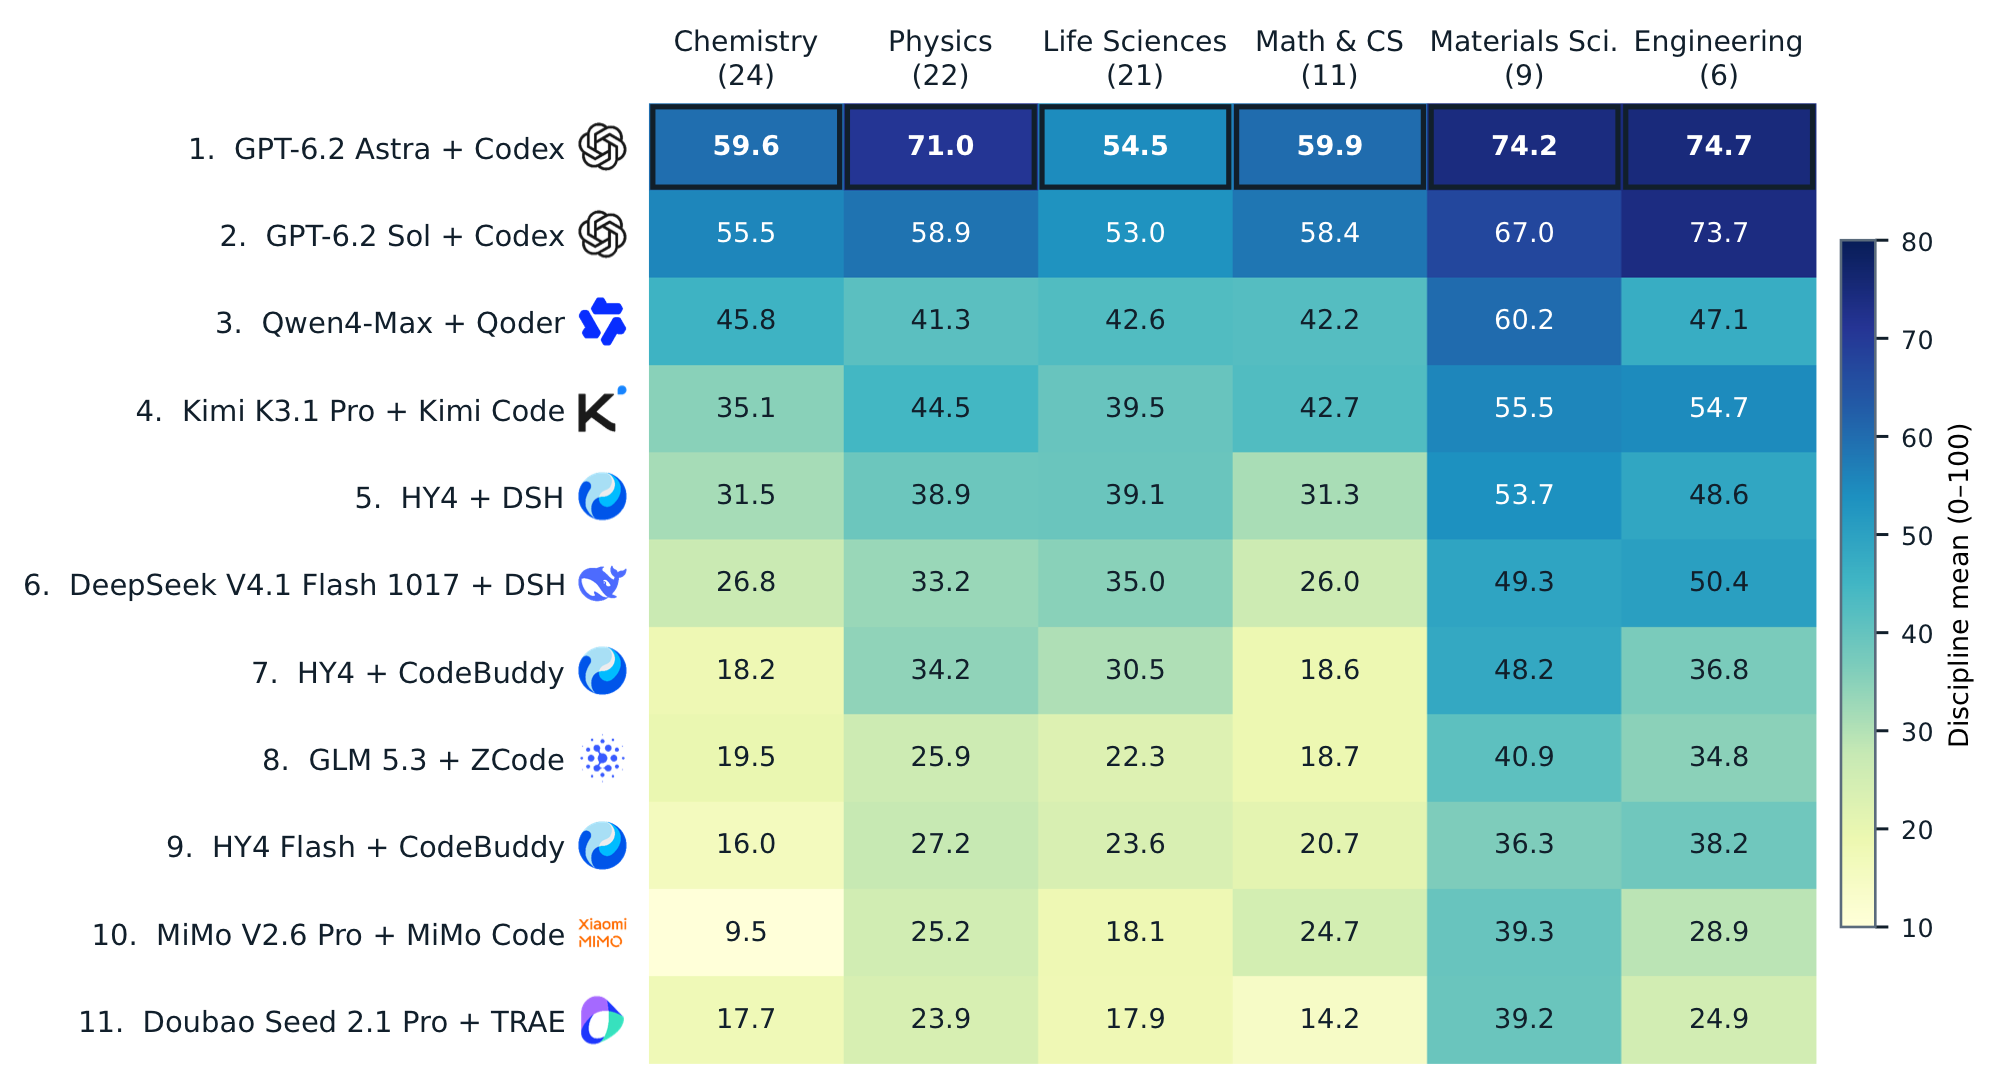
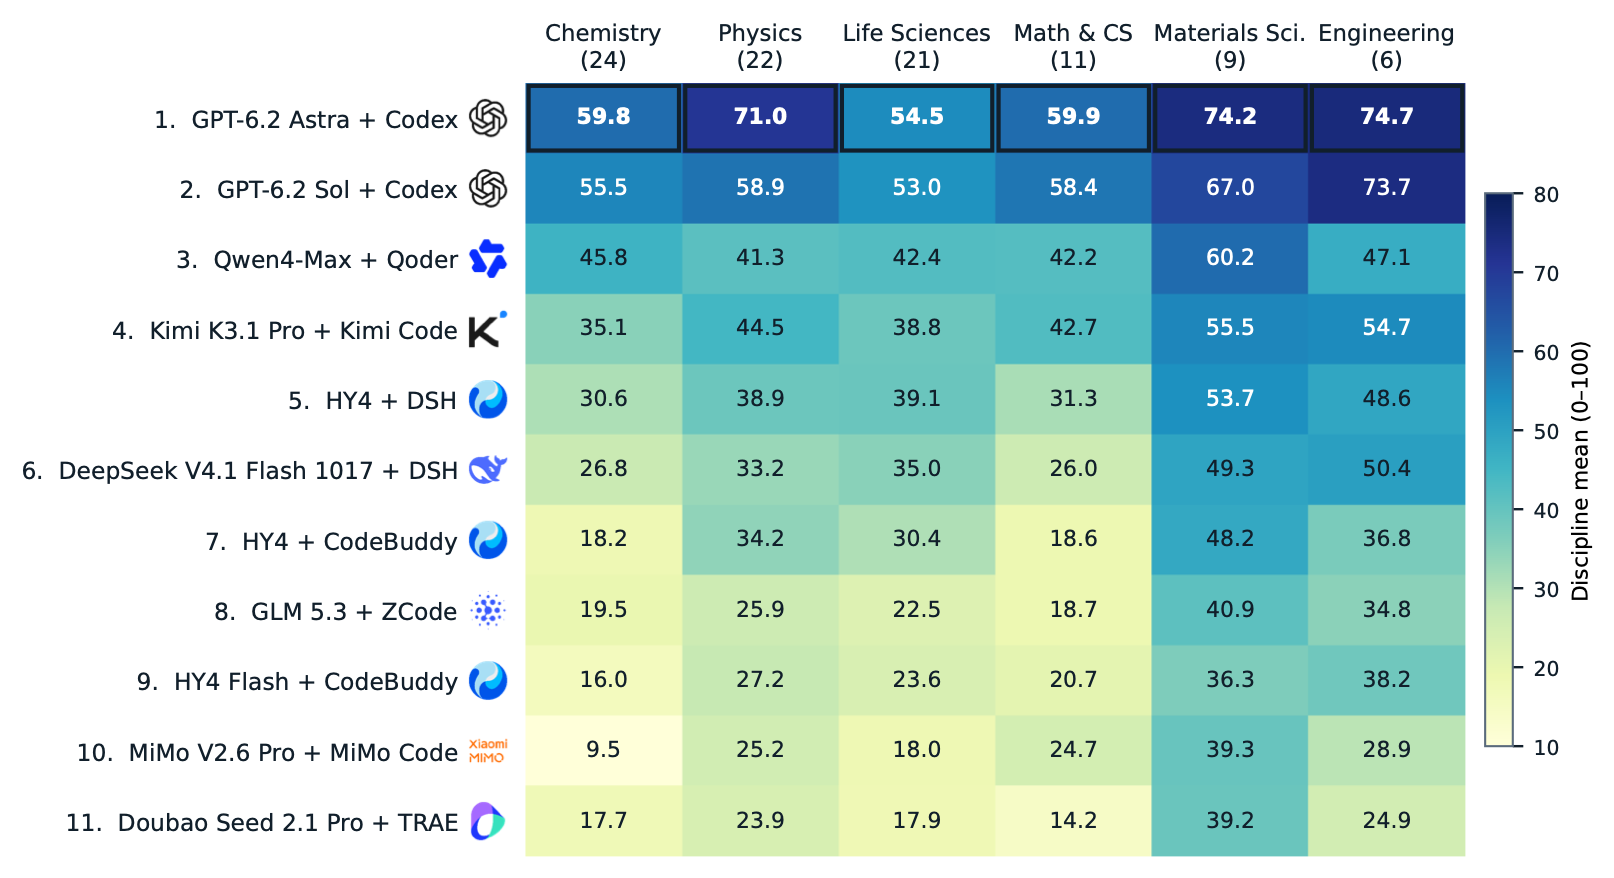
docs: add Technical Report link (deltascience.bohrium.com/report) and sync latest v1.0 leaderboard data & figures

diff --git a/README.md b/README.md
@@ -12,6 +12,7 @@
 
 <p>
   <a href="https://deltascience.bohrium.com/"><img src="https://img.shields.io/badge/Platform%20%26%20Leaderboard-deltascience.bohrium.com-111F2B?style=for-the-badge&logo=googlechrome&logoColor=white" alt="Official Platform" /></a>
+  <a href="https://deltascience.bohrium.com/report"><img src="https://img.shields.io/badge/Technical%20Report-DeltaScience%20v1.0-7C3AED?style=for-the-badge&logo=readthedocs&logoColor=white" alt="Technical Report" /></a>
   <a href="https://play.bohrium.com/competition/science-pilot"><img src="https://img.shields.io/badge/Submit%20Tasks-Playground%20Competition-0F766E?style=for-the-badge&logo=rocket&logoColor=white" alt="Submit Tasks" /></a>
   <a href="./tasks/README.md"><img src="https://img.shields.io/badge/Open--Source%20Tasks-7%20Representative%20Tasks-2563EB?style=for-the-badge&logo=github&logoColor=white" alt="Open-Source Tasks" /></a>
   <a href="mailto:deltascience@aisi.ac.cn"><img src="https://img.shields.io/badge/Contact-deltascience%40aisi.ac.cn-475569?style=for-the-badge&logo=gmail&logoColor=white" alt="Contact" /></a>
@@ -47,6 +48,7 @@ The symbol **$\delta$** in DeltaScience carries a dual meaning: it represents a 
 | Resource | Link | Description |
 | :--- | :--- | :--- |
 | **Official Platform & Leaderboard** | [https://deltascience.bohrium.com/](https://deltascience.bohrium.com/) | Live v1.0 leaderboard, per-discipline breakdowns, public exemplar tasks, and evaluation registration |
+| **Technical Report (v1.0)** | [https://deltascience.bohrium.com/report](https://deltascience.bohrium.com/report) | Full DeltaScience v1.0 Technical Report, interactive reader, methodology, and empirical findings |
 | **Year-Round Task Authoring Competition** | [https://play.bohrium.com/competition/science-pilot](https://play.bohrium.com/competition/science-pilot) | Submit real scientific problems for batch domain-expert review, CSTR attribution, collective authorship, and community incentives |
 | **Open-Source Task Repository** | [https://github.com/deepmodeling/DeltaScience](https://github.com/deepmodeling/DeltaScience) | Open-source representative Harbor task packages, specifications, and verification contracts |
 | **Official Contact** | [deltascience@aisi.ac.cn](mailto:deltascience@aisi.ac.cn) | Evaluation onboarding for Model + Harness teams, institutional collaboration, and community inquiries |
@@ -75,19 +77,19 @@ See [`tasks/README.md`](./tasks/README.md) for the standard Harbor task director
 
 All 11 versioned **Model + Harness** configurations were evaluated across all **65 private tasks × 5 independent trials** (**3,575 runs**). Task scores are averaged over the 5 trials and then macro-averaged equally across all 65 tasks, with 95% confidence intervals computed via 5,000 paired task-level bootstrap resamples. Timeouts, refusals, and harness errors are scored as 0.
 
-| Rank | Model + Harness | Mean Score | 95% CI | pass@5 | pass⁵ | Median Time |
-| :---: | :--- | :---: | :---: | :---: | :---: | :---: |
-| 1 | **GPT-6.2 Astra + Codex** | **61.2** | [51.2, 70.6] | 44.6% | 30.8% | 42m |
-| 2 | **GPT-6.2 Sol + Codex** | **56.1** | [46.8, 65.1] | 36.9% | 21.5% | 35m |
-| 3 | **Qwen4-Max + Qoder** | **44.0** | [35.2, 52.9] | 38.5% | 13.8% | 176m |
-| 4 | **Kimi K3.1 Pro + Kimi Code** | **40.8** | [32.4, 49.3] | 34.4% | 12.5% | 150m |
-| 5 | **HY4 + DSH** | **38.6** | [30.2, 47.2] | 36.9% | 4.6% | 148m |
-| 6 | DeepSeek V4.1 Flash 1017 + DSH | 32.3 | [25.1, 39.9] | 32.3% | 3.1% | 191m |
-| 7 | HY4 + CodeBuddy | 27.3 | [20.5, 34.8] | 26.2% | 4.6% | 172m |
-| 8 | GLM 5.3 + ZCode | 23.8 | [17.4, 30.4] | 24.6% | 3.1% | 300m |
-| 9 | HY4 Flash + CodeBuddy | 22.2 | [16.5, 28.4] | 18.5% | 1.5% | 114m |
-| 10 | MiMo V2.6 Pro + MiMo Code | 20.5 | [14.3, 27.1] | 13.8% | 3.1% | 159m |
-| 11 | Doubao Seed 2.1 Pro + TRAE | 19.8 | [14.0, 26.1] | 18.5% | 1.5% | 300m |
+| Rank | Model + Harness | Mean Score | 95% CI | pass@1 | pass@5 | pass⁵ | Median Time |
+| :---: | :--- | :---: | :---: | :---: | :---: | :---: | :---: |
+| 1 | **GPT-6.2 Astra + Codex** | **61.3** | [51.3, 70.6] | 55.7% | 60.0% | 49.2% | 42m |
+| 2 | **GPT-6.2 Sol + Codex** | **56.0** | [46.8, 65.1] | 46.2% | 53.8% | 36.9% | 35m |
+| 3 | **Qwen4-Max + Qoder** | **44.0** | [35.1, 52.8] | 33.2% | 49.2% | 20.0% | 176m |
+| 4 | **Kimi K3.1 Pro + Kimi Code** | **40.5** | [32.1, 48.8] | 29.5% | 50.8% | 15.4% | 150m |
+| 5 | **HY4 + DSH** | **38.3** | [30.0, 46.9] | 24.3% | 44.6% | 10.8% | 148m |
+| 6 | DeepSeek V4.1 Flash 1017 + DSH | 32.3 | [25.1, 39.9] | 17.8% | 40.0% | 4.6% | 191m |
+| 7 | HY4 + CodeBuddy | 27.3 | [20.5, 34.8] | 15.1% | 29.2% | 4.6% | 172m |
+| 8 | GLM 5.3 + ZCode | 23.9 | [17.5, 30.5] | 15.4% | 36.9% | 3.1% | 300m |
+| 9 | HY4 Flash + CodeBuddy | 22.2 | [16.5, 28.4] | 9.8% | 21.5% | 1.5% | 114m |
+| 10 | MiMo V2.6 Pro + MiMo Code | 20.5 | [14.2, 27.1] | 9.2% | 16.9% | 4.6% | 159m |
+| 11 | Doubao Seed 2.1 Pro + TRAE | 19.8 | [14.1, 26.1] | 10.8% | 24.6% | 1.5% | 300m |
 
 <p align="center">
   <img src="./assets/leaderboard-v1.0.png" alt="DeltaScience v1.0 Leaderboard" width="90%" />
@@ -95,11 +97,11 @@ All 11 versioned **Model + Harness** configurations were evaluated across all **
 
 ### Empirical Takeaways
 
-1. **Significant Headroom Remains**: Even the #1 system (`GPT-6.2 Astra + Codex`, 61.2) leaves nearly 40% headroom before reliably passing scientific acceptance across all 65 tasks, and **6 frontier tasks remain universally unsolved (0 across all 11 systems)**.
-2. **Harness Engineering Matters as Much as the Base Model**: In controlled same-model comparisons, swapping the harness on `HY4` from `CodeBuddy` to `DSH` yields **+11.3 points** (95% CI `[+6.8, +15.9]`, 42/10 win-loss)—larger than swapping base models within a fixed harness.
-3. **Reliability Gap (`pass@5` vs. `pass⁵`)**: Across all task × system cells, **70.4%** never achieve a full score in 5 trials and only **9.1%** pass all 5 trials consistently.
-4. **Domain & Task-Type Specialization**: `Qwen4-Max + Qoder` leads **Tool-Use & Planning** (41.8 vs. 34.1–36.4 for GPT-6.2), while the Best-of-11 Oracle reaches **69.6** (+8.4 over #1).
-5. **Code Execution ≠ Scientific Validity**: Among all zero-score trajectories, **61.4%** executed code cleanly without runtime errors yet failed physical, numerical, or domain acceptance criteria; longer runtimes correlate negatively with score (Spearman $\rho = -0.56$).
+1. **Significant Headroom Remains**: Even the #1 system (`GPT-6.2 Astra + Codex`, 61.3) leaves nearly 40% headroom across all 65 tasks (`pass⁵` = 49.2%), and **6 frontier tasks remain universally unsolved (0 across all 11 systems)**.
+2. **Harness Engineering Is Critical**: In controlled same-model comparisons on `HY4`, switching the harness from `CodeBuddy` to `DSH` yields **+11.0 points** (95% CI `[+6.7, +15.4]`, 42/10 win-loss)—exceeding the paired deltas observed when swapping base models within a fixed harness (`+6.0` on `DSH`, `+5.1` on `CodeBuddy`).
+3. **Reliability Gap (`pass@5` vs. `pass⁵`)**: Under the per-task scientific acceptance criterion (0/1), **61.1%** of all task × system cells never pass in 5 trials and only **13.8%** pass all 5 trials consistently.
+4. **Domain & Task-Type Specialization**: `Qwen4-Max + Qoder` leads **Tool-Use & Planning** (41.8 vs. 34.5–36.4 for GPT-6.2), while the Best-of-11 Oracle reaches **69.6** (+8.4 over #1).
+5. **Code Execution ≠ Scientific Validity**: Among all zero-score trajectories, **68.4%** executed code cleanly without runtime errors yet failed physical, numerical, or domain acceptance criteria; top-tier systems converge within 35–42 minutes median runtime, whereas long-running trial-and-error loops lead to high timeout rates (32.3%–37.5%).
 
 <p align="center">
   <img src="./assets/discipline-network.png" alt="DeltaScience v1.0 Interdisciplinary Graph" width="44%" />
@@ -171,6 +173,6 @@ If you reference DeltaScience, its leaderboard, or any open-source tasks in your
   institution = {AI for Science Institute, Beijing},
   year        = {2026},
   month       = {November},
-  url         = {https://deltascience.bohrium.com/}
+  url         = {https://deltascience.bohrium.com/report}
 }
 ```

diff --git a/README_zh.md b/README_zh.md
@@ -12,6 +12,7 @@
 
 <p>
   <a href="https://deltascience.bohrium.com/"><img src="https://img.shields.io/badge/官方平台与榜单-deltascience.bohrium.com-111F2B?style=for-the-badge&logo=googlechrome&logoColor=white" alt="官方平台" /></a>
+  <a href="https://deltascience.bohrium.com/report"><img src="https://img.shields.io/badge/技术报告-DeltaScience%20v1.0-7C3AED?style=for-the-badge&logo=readthedocs&logoColor=white" alt="技术报告" /></a>
   <a href="https://play.bohrium.com/competition/science-pilot"><img src="https://img.shields.io/badge/常年征题与竞赛-Playground%20投稿入口-0F766E?style=for-the-badge&logo=rocket&logoColor=white" alt="常年征题" /></a>
   <a href="./tasks/README_zh.md"><img src="https://img.shields.io/badge/开源代表题集-7%20道高质量真题-2563EB?style=for-the-badge&logo=github&logoColor=white" alt="开源题目" /></a>
   <a href="mailto:deltascience@aisi.ac.cn"><img src="https://img.shields.io/badge/官方邮箱-deltascience%40aisi.ac.cn-475569?style=for-the-badge&logo=gmail&logoColor=white" alt="联系邮箱" /></a>
@@ -47,6 +48,7 @@
 | 资源项 | 链接 | 说明 |
 | :--- | :--- | :--- |
 | **官方平台与公开榜单** | [https://deltascience.bohrium.com/](https://deltascience.bohrium.com/) | 查看 v1.0 首期总榜、分学科画像、公开例题及申请接入评测 |
+| **技术报告（v1.0）** | [https://deltascience.bohrium.com/report](https://deltascience.bohrium.com/report) | DeltaScience v1.0 完整技术报告、在线章节导读与实证分析 |
 | **Playground 出题竞赛与常年征题** | [https://play.bohrium.com/competition/science-pilot](https://play.bohrium.com/competition/science-pilot) | 提交真实科研与产业难题，入选获 CSTR 标识、集体署名与竞赛激励 |
 | **开源题目仓库** | [https://github.com/deepmodeling/DeltaScience](https://github.com/deepmodeling/DeltaScience) | 首批开源代表题包（Harbor 格式）、题目说明与验收规范 |
 | **官方联系邮箱** | [deltascience@aisi.ac.cn](mailto:deltascience@aisi.ac.cn) | 模型与 Harness 评测对接、科研机构共建与社区合作 |
@@ -75,19 +77,19 @@
 
 全部 11 个锁定版本的 **Model + Harness** 组合在 65 道非公开任务上独立完成 5 轮隔离评测（共 3,575 次）。单题取五轮均值后对 65 题等权平均，采用 5,000 次按题配对重采样计算 95% 置信区间；超时、拒答与 Harness 异常均记 0 分。
 
-| 排名 | Model + Harness | 均分 | 95% 区间 | pass@5 | pass⁵ | 中位用时 |
-| :-: | :--- | :-: | :-: | :-: | :-: | :-: |
-| 1 | **GPT-6.2 Astra + Codex** | **61.2** | [51.2, 70.6] | 44.6% | 30.8% | 42m |
-| 2 | **GPT-6.2 Sol + Codex** | **56.1** | [46.8, 65.1] | 36.9% | 21.5% | 35m |
-| 3 | **Qwen4-Max + Qoder** | **44.0** | [35.2, 52.9] | 38.5% | 13.8% | 176m |
-| 4 | **Kimi K3.1 Pro + Kimi Code** | **40.8** | [32.4, 49.3] | 34.4% | 12.5% | 150m |
-| 5 | **HY4 + DSH** | **38.6** | [30.2, 47.2] | 36.9% | 4.6% | 148m |
-| 6 | DeepSeek V4.1 Flash 1017 + DSH | 32.3 | [25.1, 39.9] | 32.3% | 3.1% | 191m |
-| 7 | HY4 + CodeBuddy | 27.3 | [20.5, 34.8] | 26.2% | 4.6% | 172m |
-| 8 | GLM 5.3 + ZCode | 23.8 | [17.4, 30.4] | 24.6% | 3.1% | 300m |
-| 9 | HY4 Flash + CodeBuddy | 22.2 | [16.5, 28.4] | 18.5% | 1.5% | 114m |
-| 10 | MiMo V2.6 Pro + MiMo Code | 20.5 | [14.3, 27.1] | 13.8% | 3.1% | 159m |
-| 11 | Doubao Seed 2.1 Pro + TRAE | 19.8 | [14.0, 26.1] | 18.5% | 1.5% | 300m |
+| 排名 | Model + Harness | 均分 | 95% 区间 | pass@1 | pass@5 | pass⁵ | 中位用时 |
+| :-: | :--- | :-: | :-: | :-: | :-: | :-: | :-: |
+| 1 | **GPT-6.2 Astra + Codex** | **61.3** | [51.3, 70.6] | 55.7% | 60.0% | 49.2% | 42m |
+| 2 | **GPT-6.2 Sol + Codex** | **56.0** | [46.8, 65.1] | 46.2% | 53.8% | 36.9% | 35m |
+| 3 | **Qwen4-Max + Qoder** | **44.0** | [35.1, 52.8] | 33.2% | 49.2% | 20.0% | 176m |
+| 4 | **Kimi K3.1 Pro + Kimi Code** | **40.5** | [32.1, 48.8] | 29.5% | 50.8% | 15.4% | 150m |
+| 5 | **HY4 + DSH** | **38.3** | [30.0, 46.9] | 24.3% | 44.6% | 10.8% | 148m |
+| 6 | DeepSeek V4.1 Flash 1017 + DSH | 32.3 | [25.1, 39.9] | 17.8% | 40.0% | 4.6% | 191m |
+| 7 | HY4 + CodeBuddy | 27.3 | [20.5, 34.8] | 15.1% | 29.2% | 4.6% | 172m |
+| 8 | GLM 5.3 + ZCode | 23.9 | [17.5, 30.5] | 15.4% | 36.9% | 3.1% | 300m |
+| 9 | HY4 Flash + CodeBuddy | 22.2 | [16.5, 28.4] | 9.8% | 21.5% | 1.5% | 114m |
+| 10 | MiMo V2.6 Pro + MiMo Code | 20.5 | [14.2, 27.1] | 9.2% | 16.9% | 4.6% | 159m |
+| 11 | Doubao Seed 2.1 Pro + TRAE | 19.8 | [14.1, 26.1] | 10.8% | 24.6% | 1.5% | 300m |
 
 <p align="center">
   <img src="./assets/leaderboard-v1.0.png" alt="DeltaScience v1.0 首期总榜" width="90%" />
